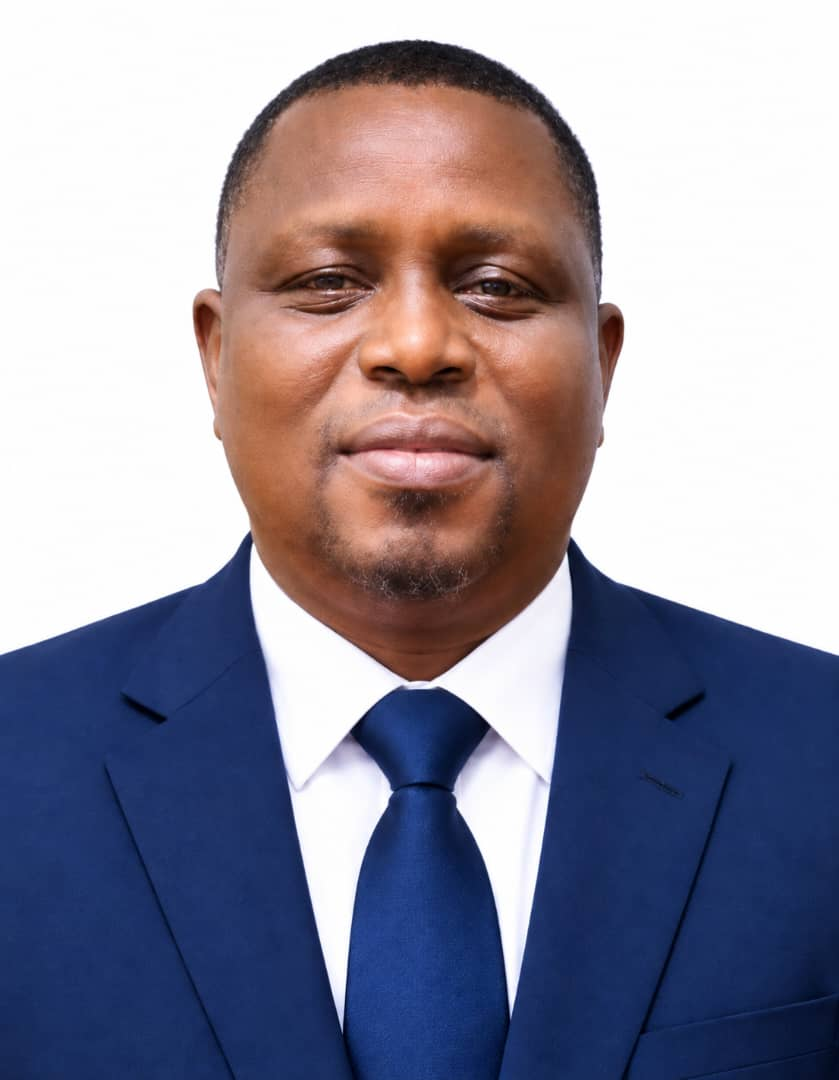
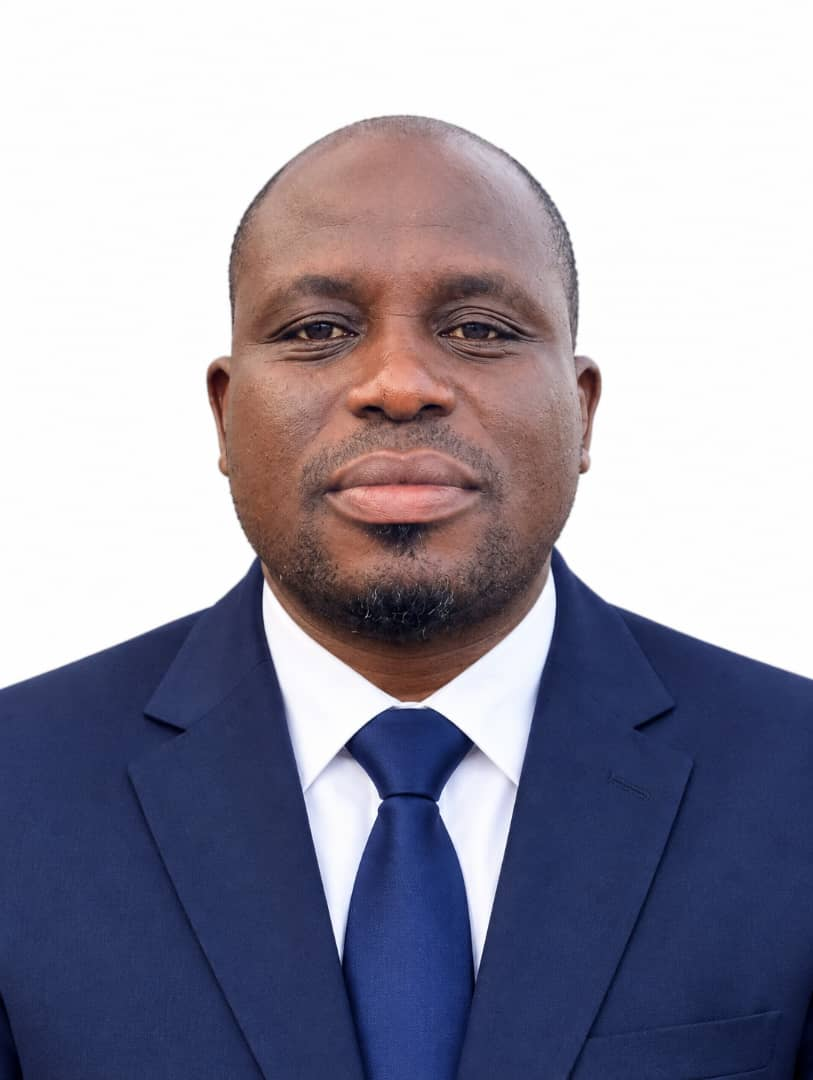
V.26.21.9

diff --git a/app/layout.js b/app/layout.js
@@ -59,7 +59,7 @@ export const metadata = {
   openGraph: {
     title: `${site.name} | Student Transport Lagos Island to Yaba`,
     description:
-      "Safe, reliable, and punctual student transport connecting Lagos Island to Yaba (Mainland). Subsidiary of FSTCY.",
+      "Safe, reliable, and punctual student transport connecting Lagos Island to Yaba (Mainland). Subsidiary of FSTCY School Bus Shuttle Operators Association.",
     url: baseUrl,
     siteName: site.name,
     locale: "en_NG",
@@ -77,7 +77,7 @@ export const metadata = {
     card: "summary_large_image",
     title: `${site.name} | School Shuttle Lagos Island to Yaba`,
     description:
-      "Punctual student shuttle service between Lagos Island and Yaba. Official subsidiary of FSTCY.",
+      "Punctual student shuttle service between Lagos Island and Yaba. Official Subsidiary of FSTCY School Bus Shuttle Operators Association.",
     images: ["/images/og-image.jpg"],
   },
   robots: {

diff --git a/components/Navbar.jsx b/components/Navbar.jsx
@@ -126,7 +126,7 @@ export default function Navbar() {
           >
             {mounted ? (
               theme === "dark" ? (
-                <FaSun className="text-amber-400 text-sm sm:text-base" />
+                <FaSun className="text-white text-sm sm:text-base" />
               ) : (
                 <FaMoon className="text-brand text-sm sm:text-base" />
               )

diff --git a/lib/site.js b/lib/site.js
@@ -42,6 +42,7 @@ export const site = {
     "Methodist Girls' High School, Sabo",
     "MBARI MBAYO Secondary School",
     "International School, Unilag",
+    "Reagan Memorial Baptist Girl Secondary School Sabo",
     "Command Secondary School, Victoria Island",
   ],
 };
